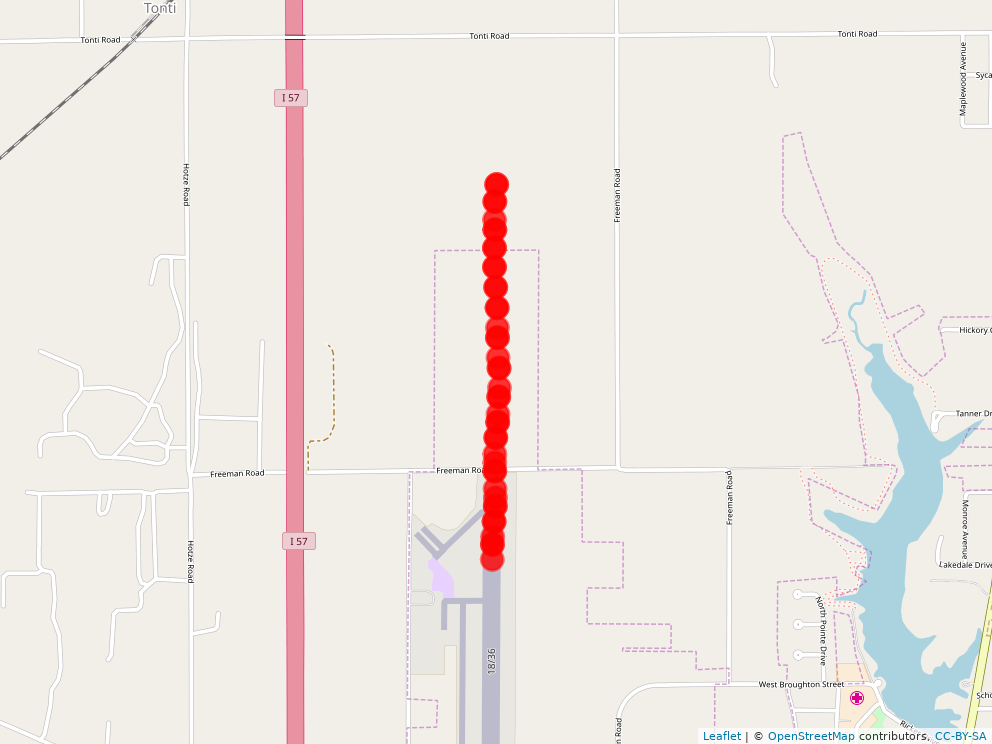
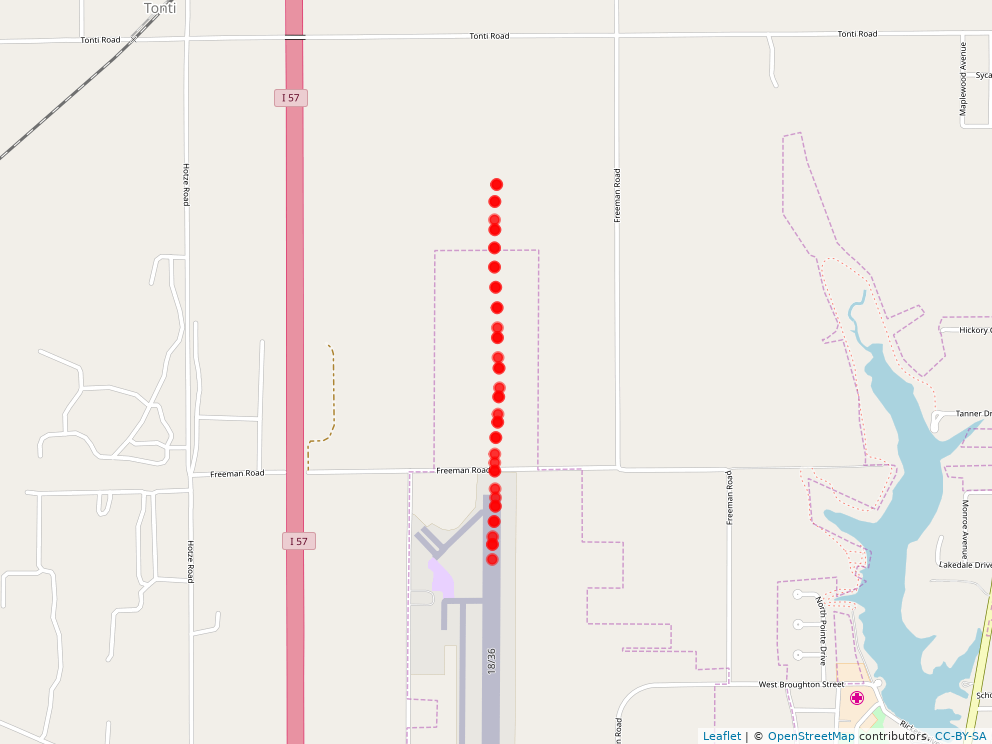
working on README

Changed region(s): [[0.4688, 0.2164, 0.5312, 0.7728]]

diff --git a/README.md b/README.md
@@ -5,7 +5,7 @@
 In this repository, I collect and analyze some of the data that I recorded from the sensors of my cell phone when plioting general aviation aircraft. Apart from position (WGS84), I also recorded altitude, magnetic heading, ground speed, and data from the accelerometers.
 Feel free to use the data as you please. You can contact me using andreas.windisch@yahoo.com. You can also find and connect with me on [LinkedIn](https://www.linkedin.com/in/andreas-windisch-physics/).
 
-### 1 Data Files in this repository   
+### 1 Files in this repository   
 
 #### C152_N53398_KCPS_to_KSLO_2017-10-29.csv     
 This file contains data recorded on October 29 2017 when flying a Cessna 152 (N53398) from St. Louis Downtown Airport (KCPS) to Salem Leckrone airport (KSLO). The data covers only the trip to KSLO, as well as a touch-and-go maneuver executed at KSLO. The recording ends shortly after the climb-out after the touch-and-go. I started the trip with full tanks and had no passenger on this flight. The flight was uneventful. The sample rate of the recording is 1 Hz. Here is an open streetmap image of the flight, produced by the R-script I provide in this repository. The plot has been created with the R-package leaflet.    
@@ -32,7 +32,10 @@ Those files have been produced by the R-script trajectories.R. They contain Open
 
 
 ### 2 A closer look at flight number 1 (KCPS to KSLO)
-One interesting aspect to look into is, for example, the quality of the descent for the touch-and-go maneuver. I therefore isolated the data that corresponds to the final approach for Runway 18 at KSLO and clipped it off at touch-down, where I determined this point by eyeballing the altitude data. When flying a stabilized approach, one should try to establish a constant descent rate throughout the approach, so, under ideal conditions, this would amount to a linear function (up to the point of flare). Here is a plot of the altitude profile of the short final approach to RW 18 at KSLO in meters MSL as a function of the touch down point on the runway, also in meters.  
+One interesting aspect to look into is, for example, the quality of the descent for the touch-and-go maneuver. I therefore isolated the data that corresponds to the final approach for Runway 18 at KSLO and clipped it off at touch-down, where I determined this point by eyeballing the altitude data. Here are the data points in question, displayed on Open Streetmap.   
+![](landing1_map.png)
+
+When flying a stabilized approach, one should try to establish a constant descent rate throughout the approach, so, under ideal conditions, this would amount to a linear function (up to the point of flare). Here is a plot of the altitude profile of the short final approach to RW 18 at KSLO in meters MSL as a function of the touch down point on the runway, also in meters.  
 ![](ldg1.png)
    
 
